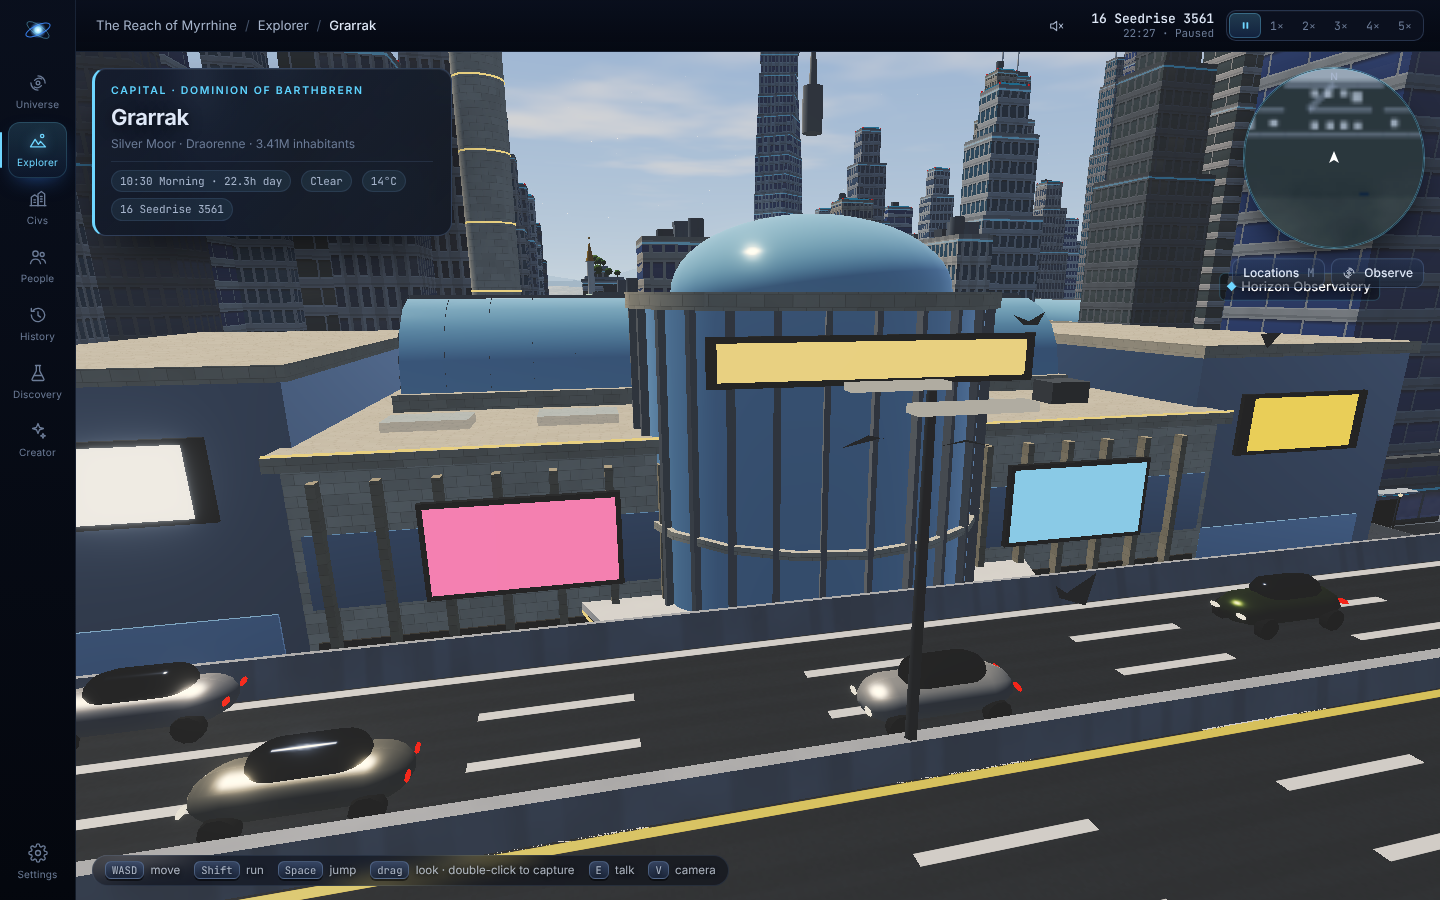
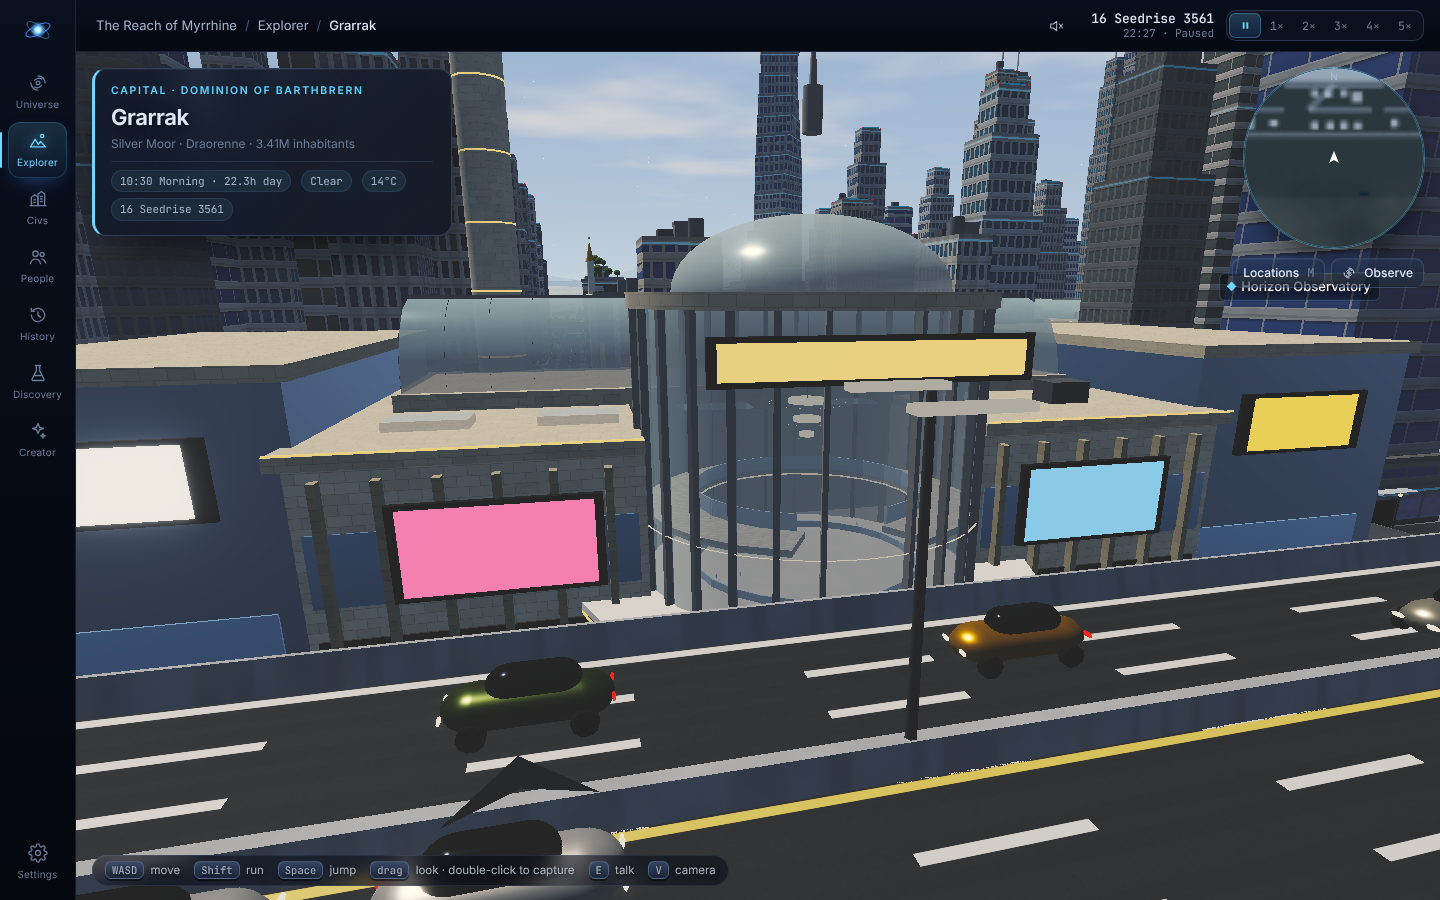
Mall rotunda: open canopy ring so the atrium is open inside; new mall photos
Claude-Session: https://claude.ai/code/session_014yo4DpHJhzR4RbKay17FEp

diff --git a/src/explorer/districts.ts b/src/explorer/districts.ts
@@ -899,7 +899,16 @@ function mall(out: DistrictData, b: Building, y0: number, warm: boolean) {
       add('box', 'glow', Math.sin(t) * (rr - gw / 2), y - 0.05, rz + Math.cos(t) * (rr - gw / 2), (Math.PI * (rd - gw * 2)) / segs + 0.2, 0.08, 0.2, '#fff2d6', t);
     }
   }
-  add('cyl', 'plaster', 0, 5.6, rz, rd + 9, 0.5, rd + 9, '#f4f2ee');
+  // the canopy: a ring of panels outside the glass only, so the rotunda stays open inside
+  {
+    const segs = big ? 40 : 24;
+    for (let k = 0; k < segs; k++) {
+      const t = (k / segs) * Math.PI * 2;
+      if (Math.cos(t) < -0.2) continue;
+      const rr = rd / 2 + 2.25;
+      add('box', 'plaster', Math.sin(t) * rr, 5.6, rz + Math.cos(t) * rr, (Math.PI * (rd + 9)) / segs + 0.25, 0.5, 4.5, '#f4f2ee', t);
+    }
+  }
   add('ring', 'glow', 0, 5.58, rz, rd + 9, 1, rd + 9, brand);
   for (let k = 0; k < 10; k++) {
     const t = -Math.PI / 2 + (k / 9) * Math.PI;
